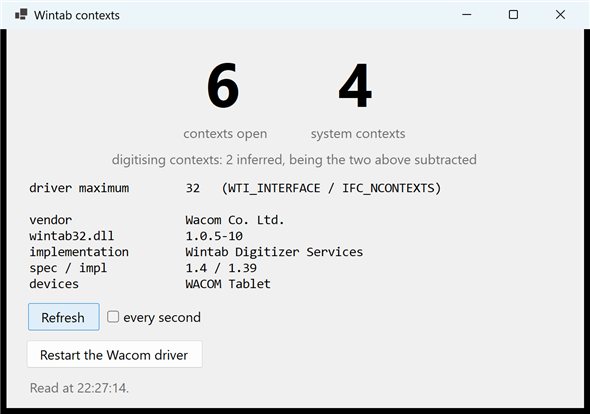
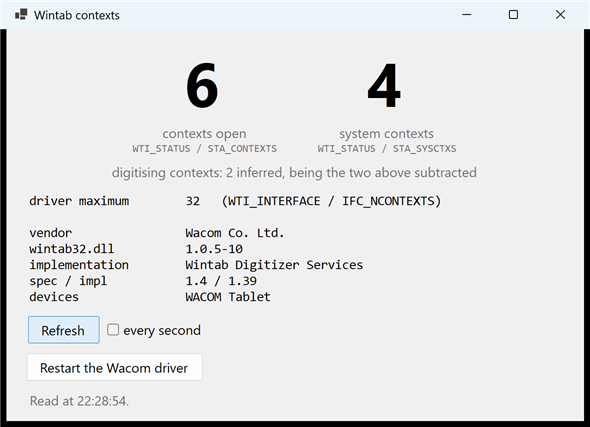
Print the constant behind each of the two counted numbers
The maximum already said where it came from. The two numbers beside it did not,
which left the window making three claims of which one was annotated.

    6                      4
 contexts open       system contexts
WTI_STATUS /          WTI_STATUS /
STA_CONTEXTS          STA_SYSCTXS

Small and grey, under the caption rather than in it, so the number stays the
thing the eye goes to.

"contexts open" is this tool's phrase; STA_CONTEXTS is something a viewer can
go and look up, and the difference matters when the whole point of the window
is to be believed about a driver's behaviour. The figure still without a
constant is the one that has none -- digitising contexts are inferred, and the
absence now reads as deliberate rather than as an omission.

Checked the binary was newer than the source before believing the screenshot,
after a stale build earlier today produced a measurement of code that was not
running.

diff --git a/Tools/WintabContexts/MainForm.cs b/Tools/WintabContexts/MainForm.cs
@@ -22,6 +22,8 @@ internal sealed class MainForm : Form
     private readonly Label _countCaption = new();
     private readonly Label _system = new();
     private readonly Label _systemCaption = new();
+    private readonly Label _countSource = new();
+    private readonly Label _systemSource = new();
     private readonly Label _inferred = new();
     private readonly Label _detail = new();
     private readonly Label _status = new();
@@ -104,13 +106,15 @@ internal sealed class MainForm : Form
         numbers.ColumnStyles.Add(new ColumnStyle(SizeType.AutoSize));
         numbers.ColumnStyles.Add(new ColumnStyle(SizeType.AutoSize));
 
-        Big(_count, _countCaption, CountCaption);
-        Big(_system, _systemCaption, SystemCaption);
+        Big(_count, _countCaption, _countSource, CountCaption, "WTI_STATUS / STA_CONTEXTS");
+        Big(_system, _systemCaption, _systemSource, SystemCaption, "WTI_STATUS / STA_SYSCTXS");
 
         numbers.Controls.Add(_count, 0, 0);
         numbers.Controls.Add(_system, 1, 0);
         numbers.Controls.Add(_countCaption, 0, 1);
         numbers.Controls.Add(_systemCaption, 1, 1);
+        numbers.Controls.Add(_countSource, 0, 2);
+        numbers.Controls.Add(_systemSource, 1, 2);
 
         // The third number, which the driver does not report and which is therefore said in words
         // rather than set in the same size as the two it is derived from.
@@ -187,8 +191,14 @@ internal sealed class MainForm : Form
         DescribeResetButton();
     }
 
-    /// <summary>Set up one of the two large numbers and the caption under it.</summary>
-    private void Big(Label number, Label caption, string text)
+    /// <summary>Set up one of the two large numbers, its caption, and where it came from.</summary>
+    /// <remarks>
+    /// The question that produced each number is printed under it. Three figures are on this
+    /// window and only two of them were asked of the driver, so saying which constant answered
+    /// which is how a viewer can tell them apart -- and a constant name is something they can go
+    /// and look up, where "contexts open" is only this tool's word for it.
+    /// </remarks>
+    private void Big(Label number, Label caption, Label source, string text, string constant)
     {
         number.Text = Nothing;
         number.Font = new Font("Segoe UI", 46f, FontStyle.Bold);
@@ -202,6 +212,13 @@ internal sealed class MainForm : Form
         caption.Anchor = AnchorStyles.None;
         caption.ForeColor = SystemColors.GrayText;
         caption.Margin = new Padding(Scaled(18), 2, Scaled(18), 0);
+
+        source.Text = constant;
+        source.Font = new Font("Consolas", 8f);
+        source.AutoSize = true;
+        source.Anchor = AnchorStyles.None;
+        source.ForeColor = SystemColors.GrayText;
+        source.Margin = new Padding(Scaled(18), 1, Scaled(18), 0);
     }
 
     /// <summary>A length written at 96 dpi, in the pixels this display actually uses.</summary>

diff --git a/Tools/WintabContexts/README.md b/Tools/WintabContexts/README.md
@@ -21,8 +21,8 @@ dotnet run --project Tools/WintabContexts
 
 | | |
 |---|---|
-| **contexts open** | every context open on the machine, whoever opened it |
-| **system contexts** | how many of those drive the cursor as well as delivering packets |
+| **contexts open** | every context open on the machine, whoever opened it — `WTI_STATUS / STA_CONTEXTS` |
+| **system contexts** | how many of those drive the cursor as well as delivering packets — `WTI_STATUS / STA_SYSCTXS` |
 | digitising contexts | said in words, not set as a number, because it is **inferred**: Wintab has no counter for these, so it is the two numbers subtracted |
 | driver maximum | what the driver says it supports, and the constant it came from. It does not enforce it |
 | vendor | the company recorded in `wintab32.dll` — whose driver is answering |
@@ -30,6 +30,10 @@ dotnet run --project Tools/WintabContexts
 | implementation | the name Wintab gives itself |
 | spec / impl | the API version it claims, and its own |
 | devices | every device the driver lists, by the name it gives each |
+
+Every number is printed with the Wintab question that produced it, so a figure on screen can be
+traced to a documented constant rather than taken on this tool's word for it. The one without a
+constant is the one that has none: digitising contexts are inferred.
 
 The number starts blank. Until Refresh is pressed nothing has been asked, and a figure whose age
 is unknown is worse than no figure. **every second** keeps it current, which is what to use while
